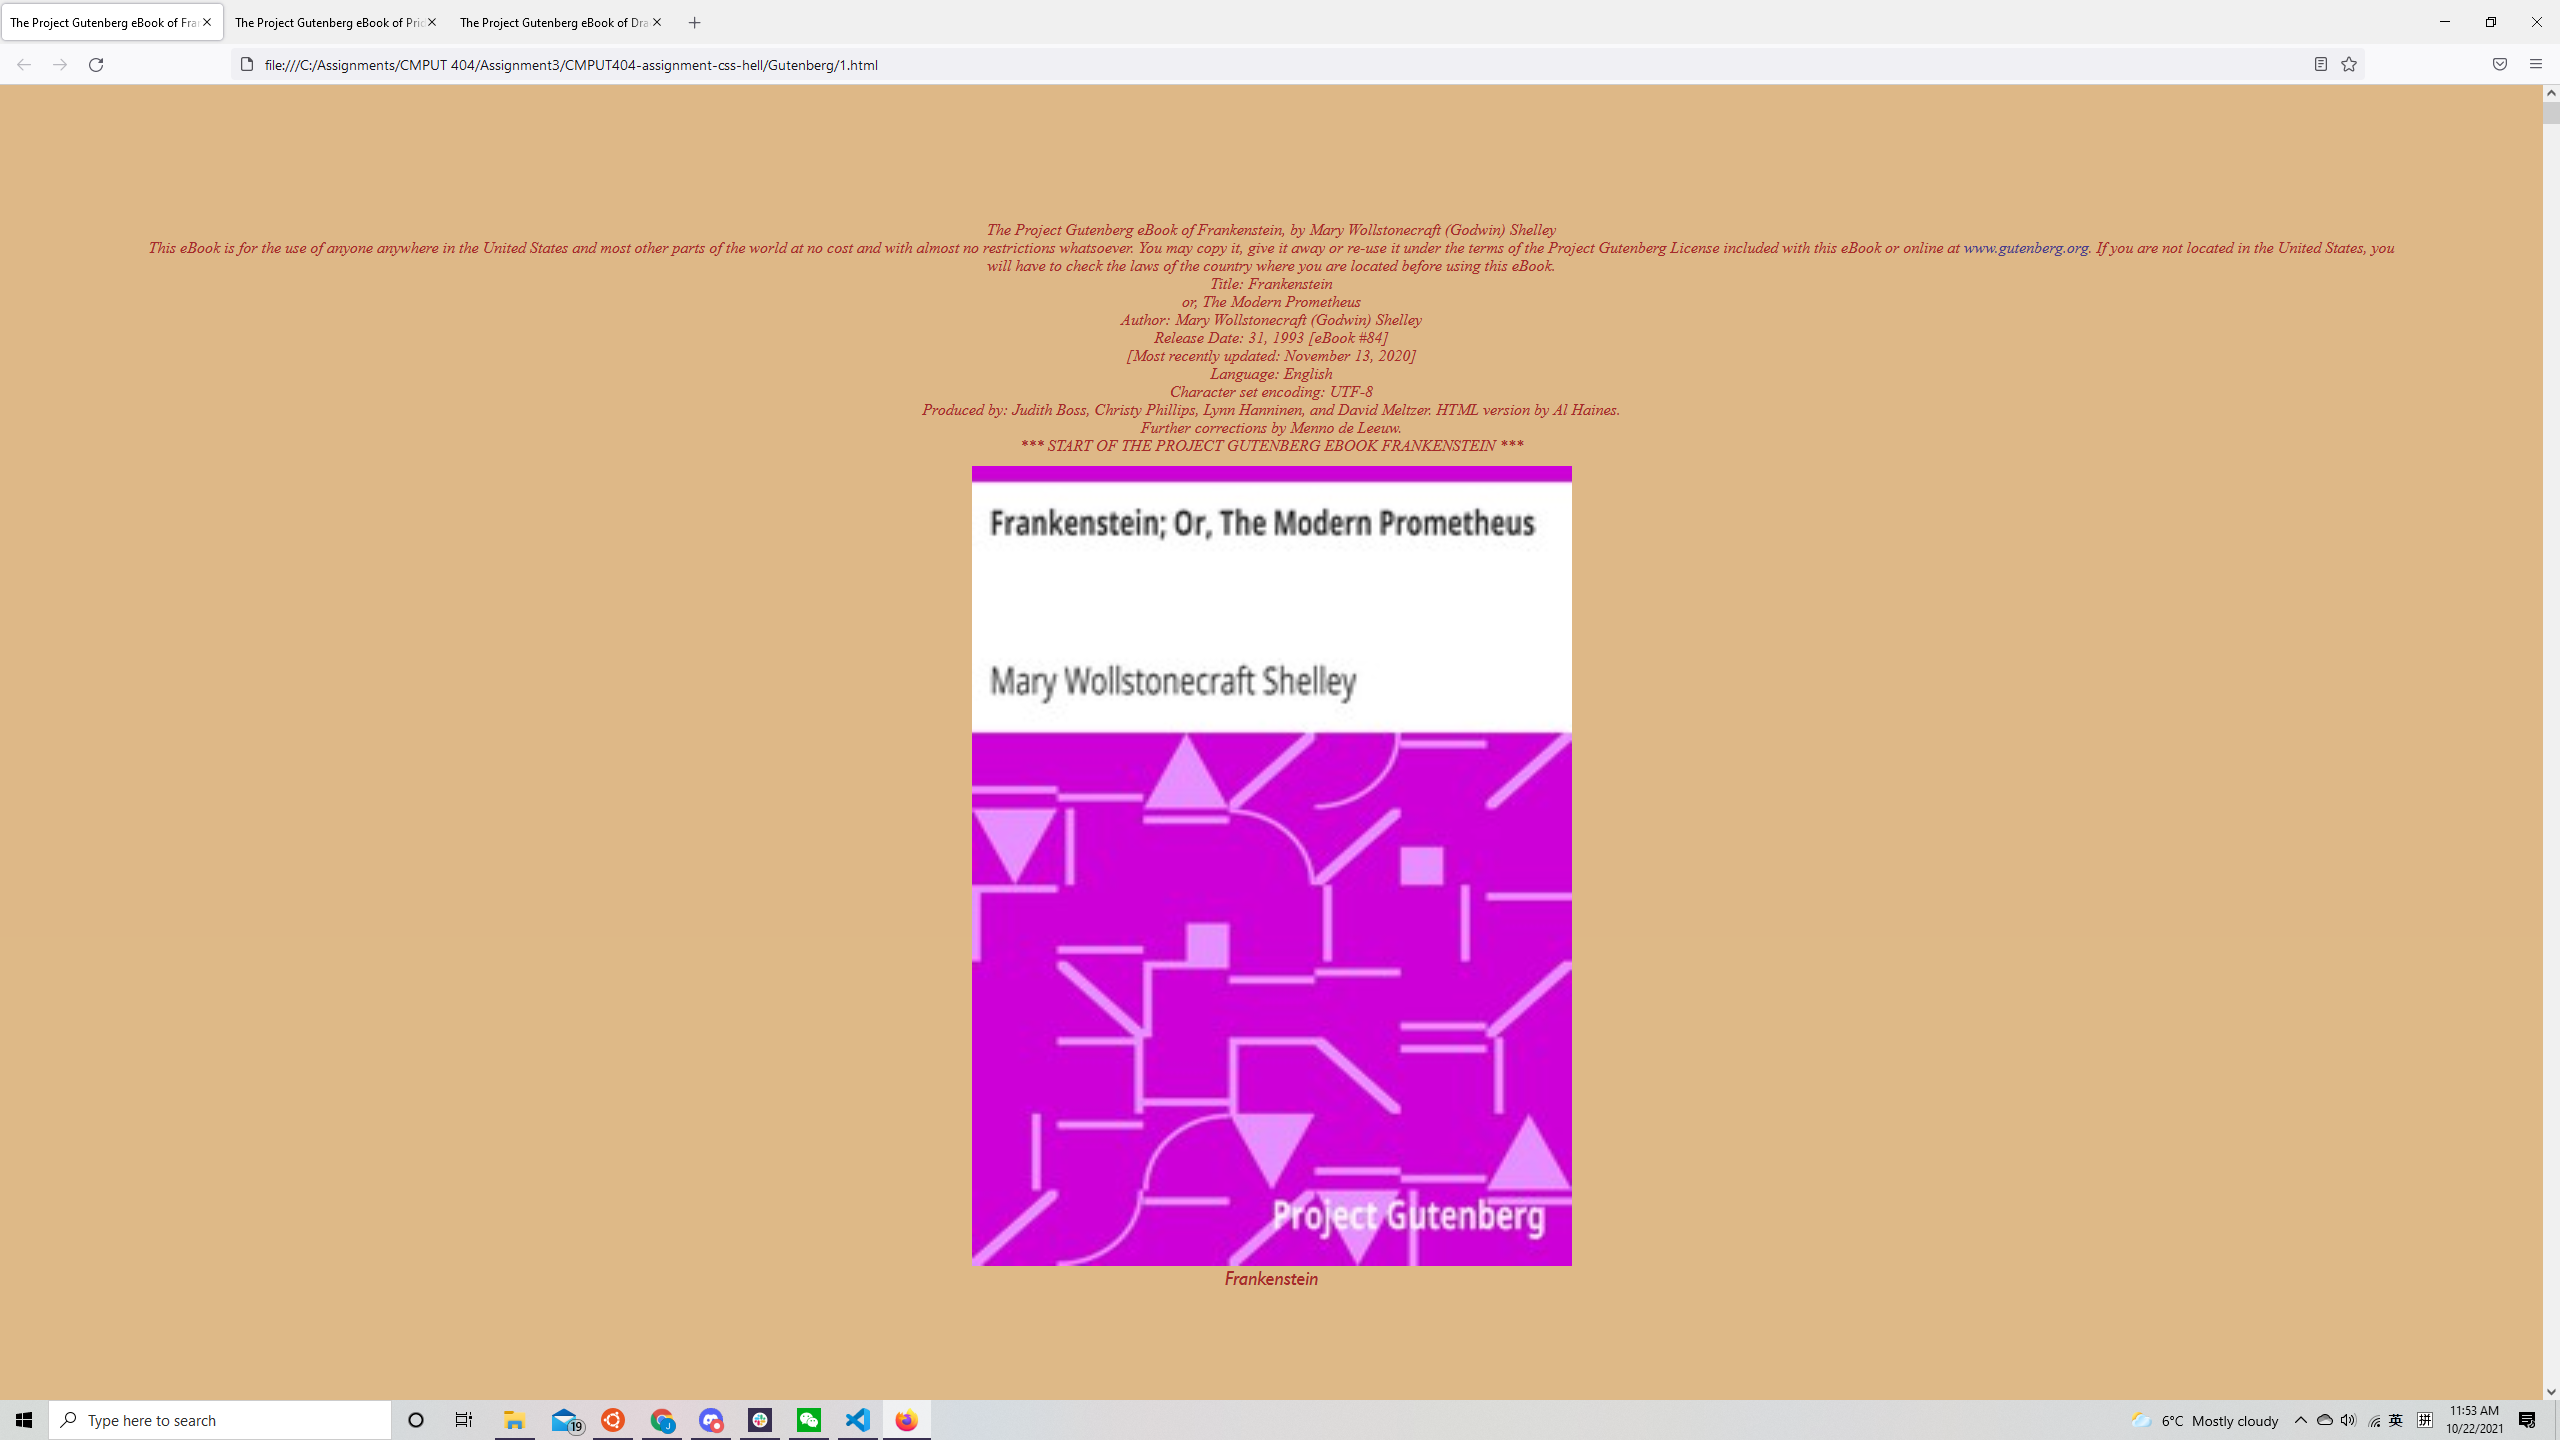
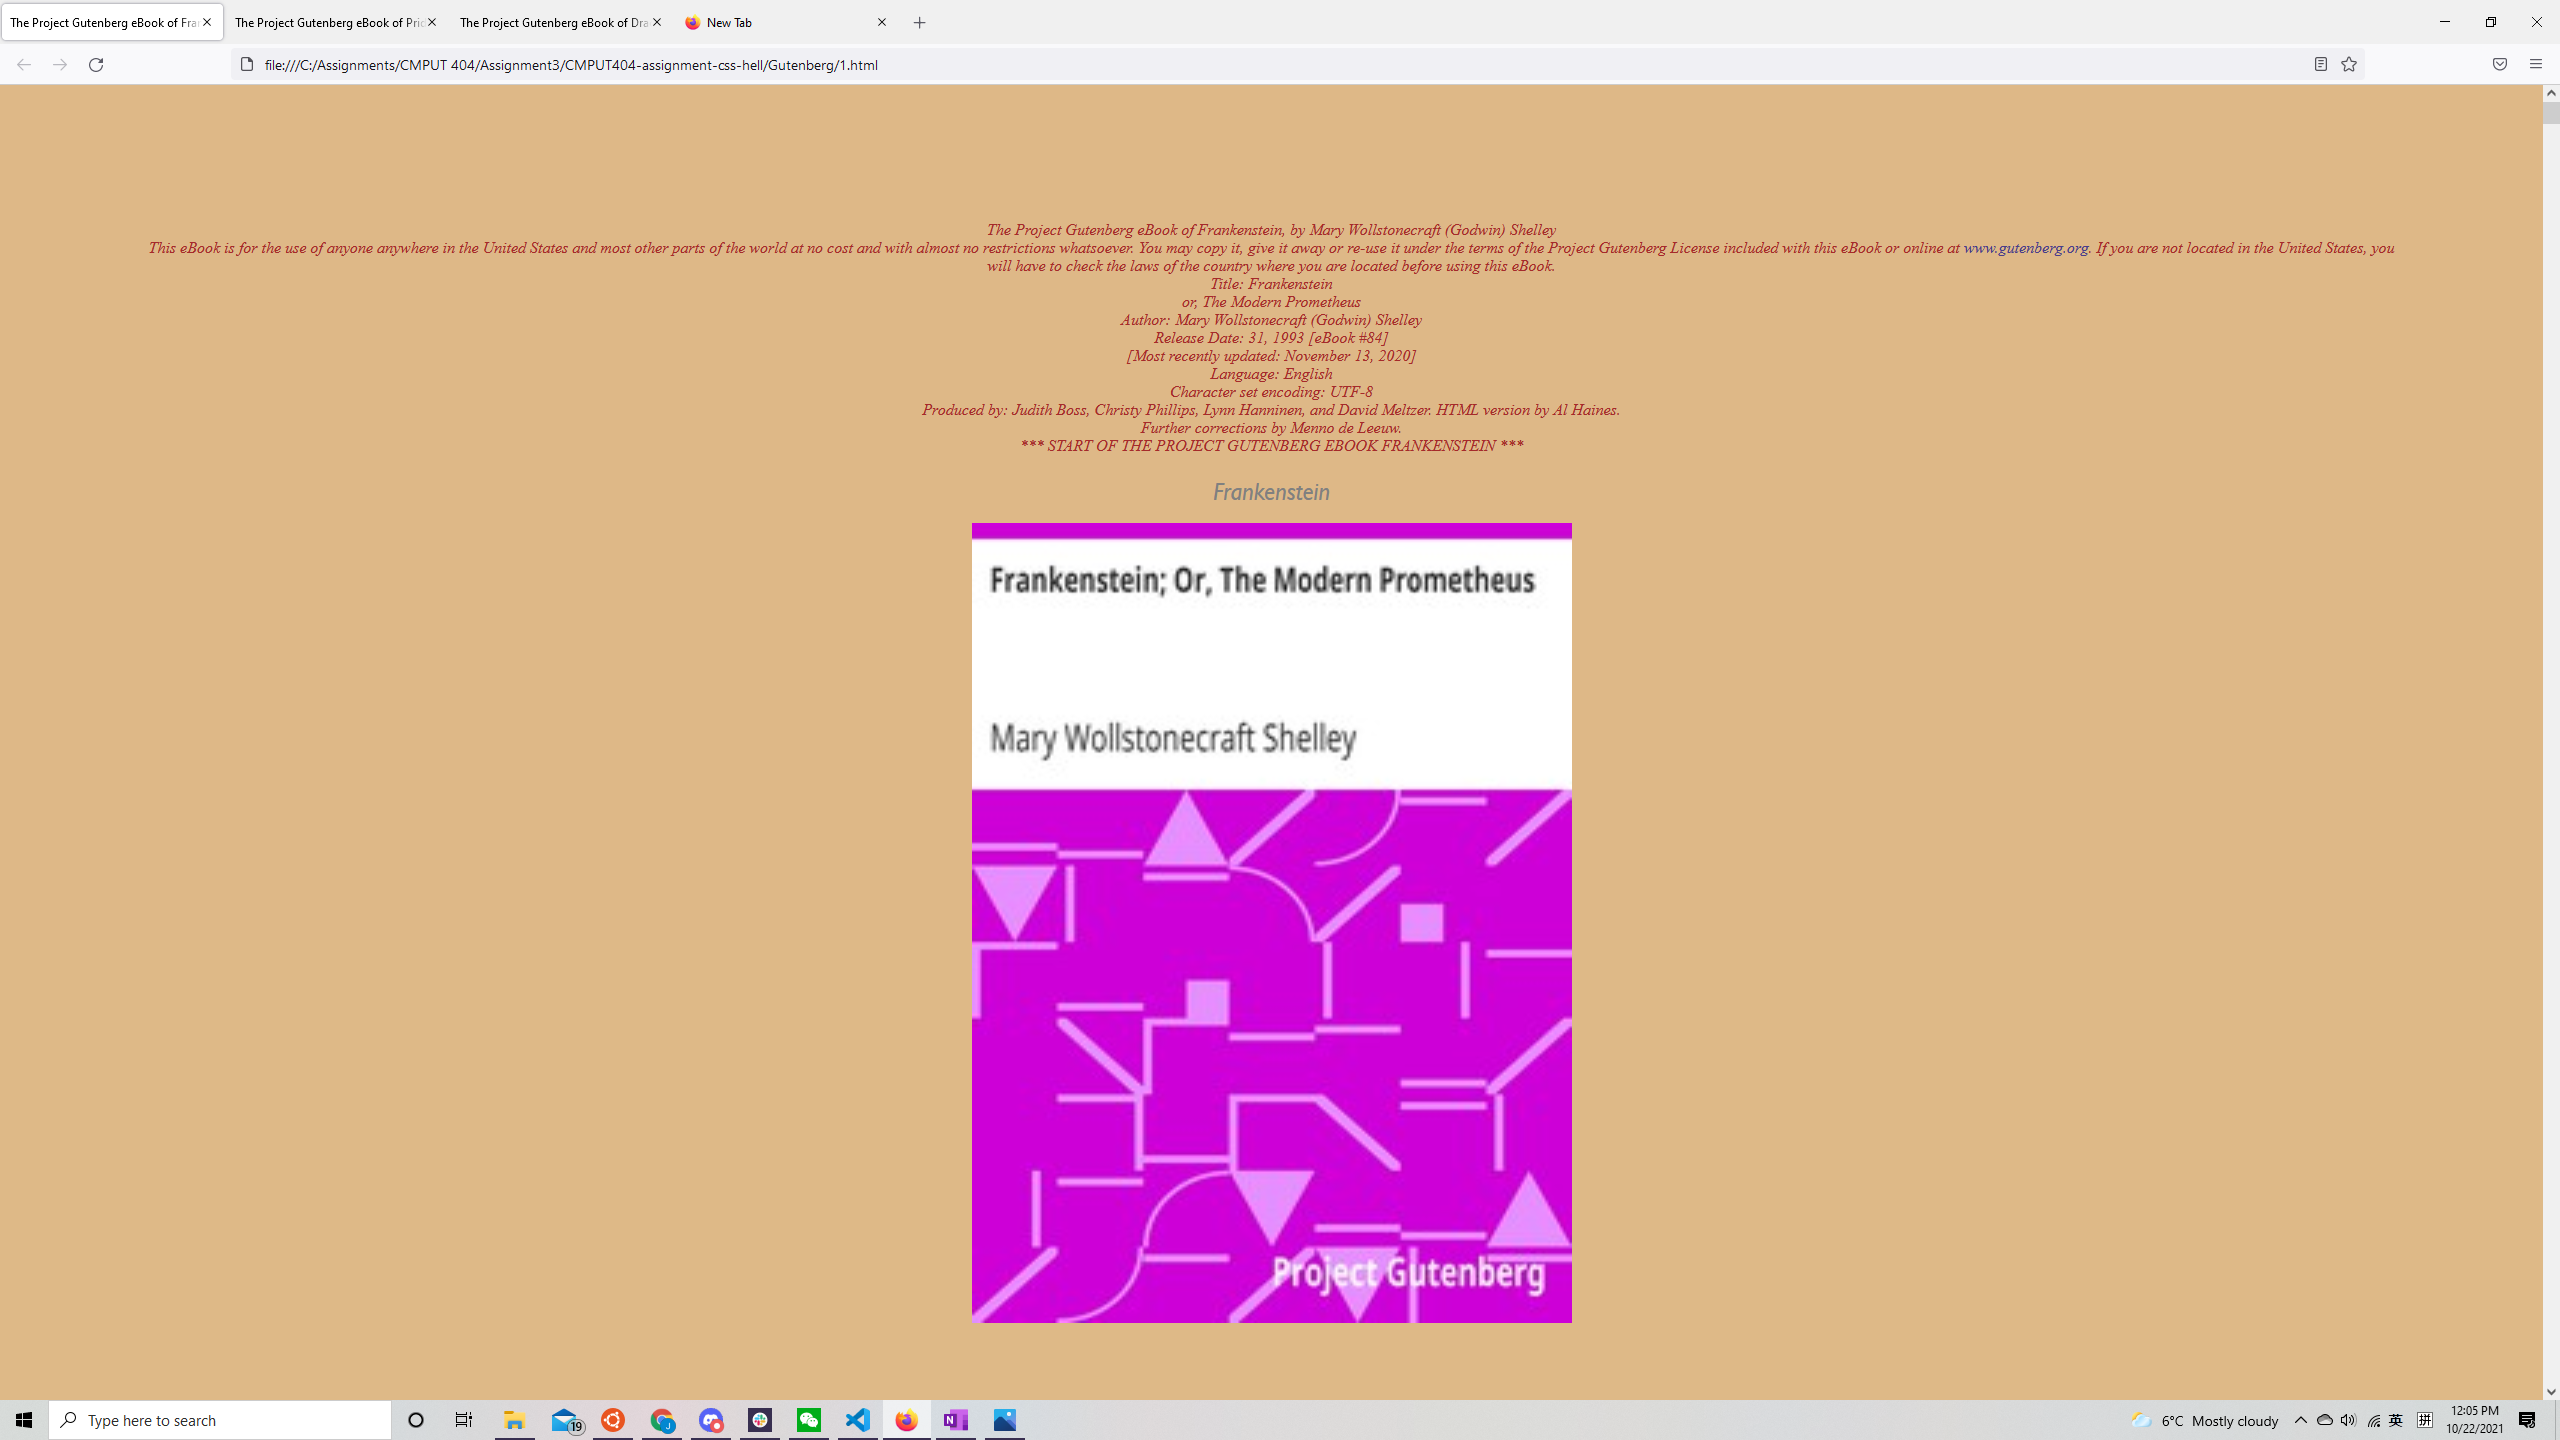
push

Changed region(s): [[0.375, 0.4688, 0.625, 0.9375], [0.375, 0.3125, 0.625, 0.4375], [0.375, 0.9688, 0.4062, 1.0]]

diff --git a/Gutenberg/style.css b/Gutenberg/style.css
@@ -35,12 +35,13 @@ img {display: block;
     margin-left: auto;
     margin-right: auto;
     width: 600px;
-    height: 800px;
-    padding-top:0.5%}
+    height: 800px;}
 
 .inbook1 {width:150px;height:200px}
 
-figcaption {text-align: center; font-size:20px; font-family: 'Gill Sans', 'Gill Sans MT', Calibri, 'Trebuchet MS', sans-serif; color:brown; font-style:italic;}
+figcaption {text-align: center; font-size:25px; font-family: 'Gill Sans', 'Gill Sans MT', Calibri, 'Trebuchet MS', sans-serif; color:grey; font-style:italic; padding-top:1%; padding-bottom: 0.75%}
+
+.xhtml_big {text-align: center; font-size:20px; font-family: 'Gill Sans', 'Gill Sans MT', Calibri, 'Trebuchet MS', sans-serif; color:grey; font-style:italic; padding-top:1%;}
 
 p {font-style: normal; font-family: Cambria, Cochin, Georgia, Times, 'Times New Roman', serif; font-size: 20px;}
 

diff --git a/Gutenberg/1.html b/Gutenberg/1.html
@@ -51,8 +51,8 @@
         Haines.<br>
         Further corrections by Menno de Leeuw.</div>
     <div class="c6">*** START OF THE PROJECT GUTENBERG EBOOK FRANKENSTEIN ***</div>
-    <img class="figcenter" src="images/cover_1.jpg" alt="cover">
     <figcaption class=caption1> Frankenstein </figcaption>
+    <img class="figcenter" src="images/cover_1.jpg" alt="cover">
     <h1>Frankenstein;</h1>
     <h3>or, the Modern Prometheus</h3>
     <h2 class="no-break">by Mary Wollstonecraft (Godwin) Shelley</h2>

diff --git a/Gutenberg/2.html b/Gutenberg/2.html
@@ -57,8 +57,8 @@
             </tr>
         </tbody>
     </table>
-    <div class="figc9"><img src="images/cover_2.jpeg" class="c8" alt="cover"></div>
     <figcaption class=caption2> Pride and Prejudice </figcaption>
+    <div class="figc9"><img src="images/cover_2.jpeg" class="c8" alt="cover"></div>
     <h1>Pride and Prejudice</h1>
     <h2 class="no-break">By Jane Austen</h2>
     <hr>
